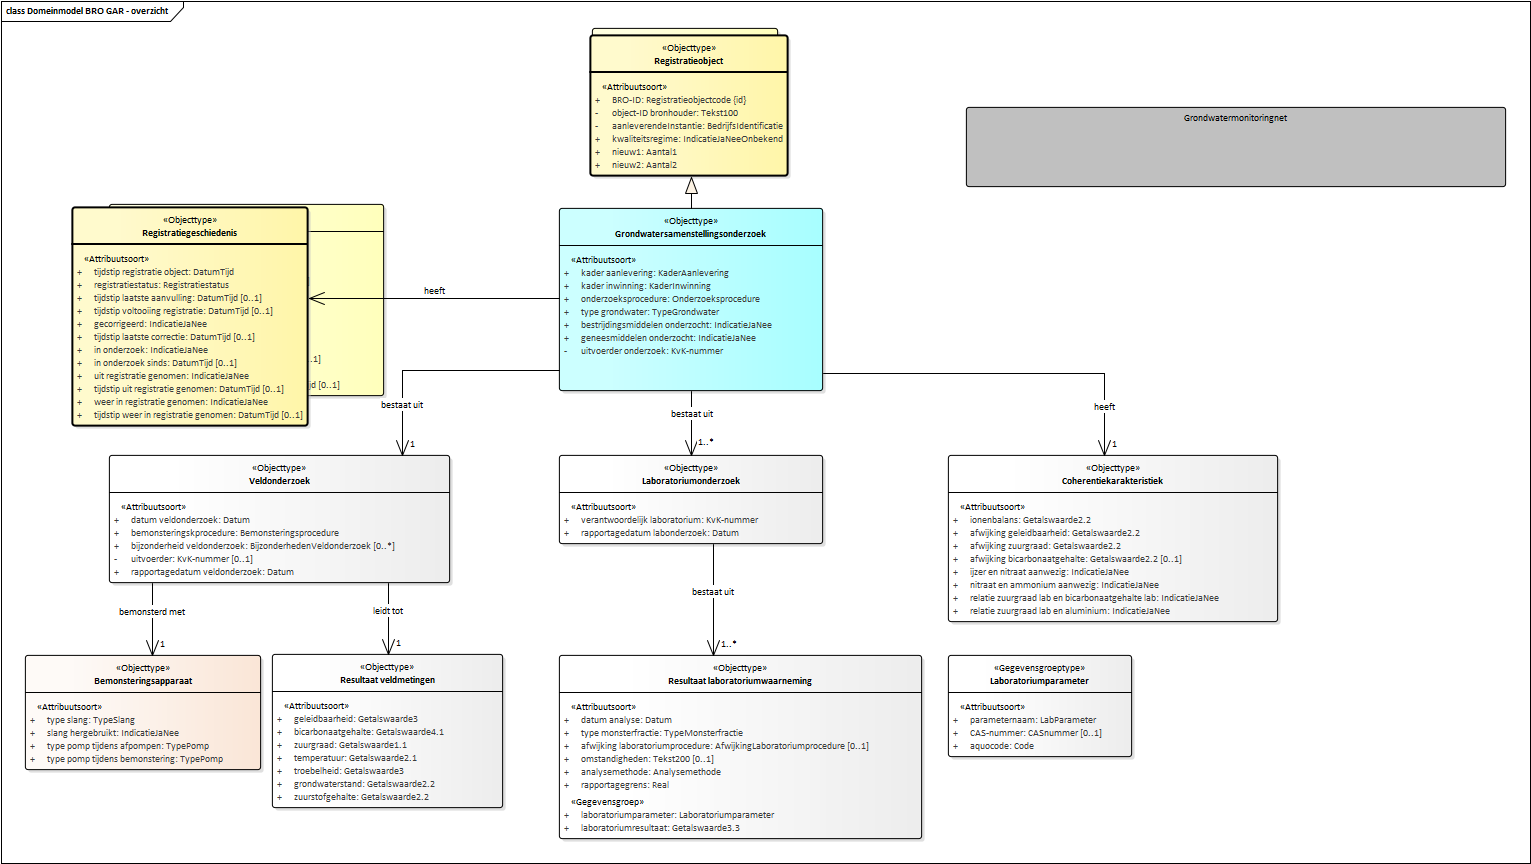
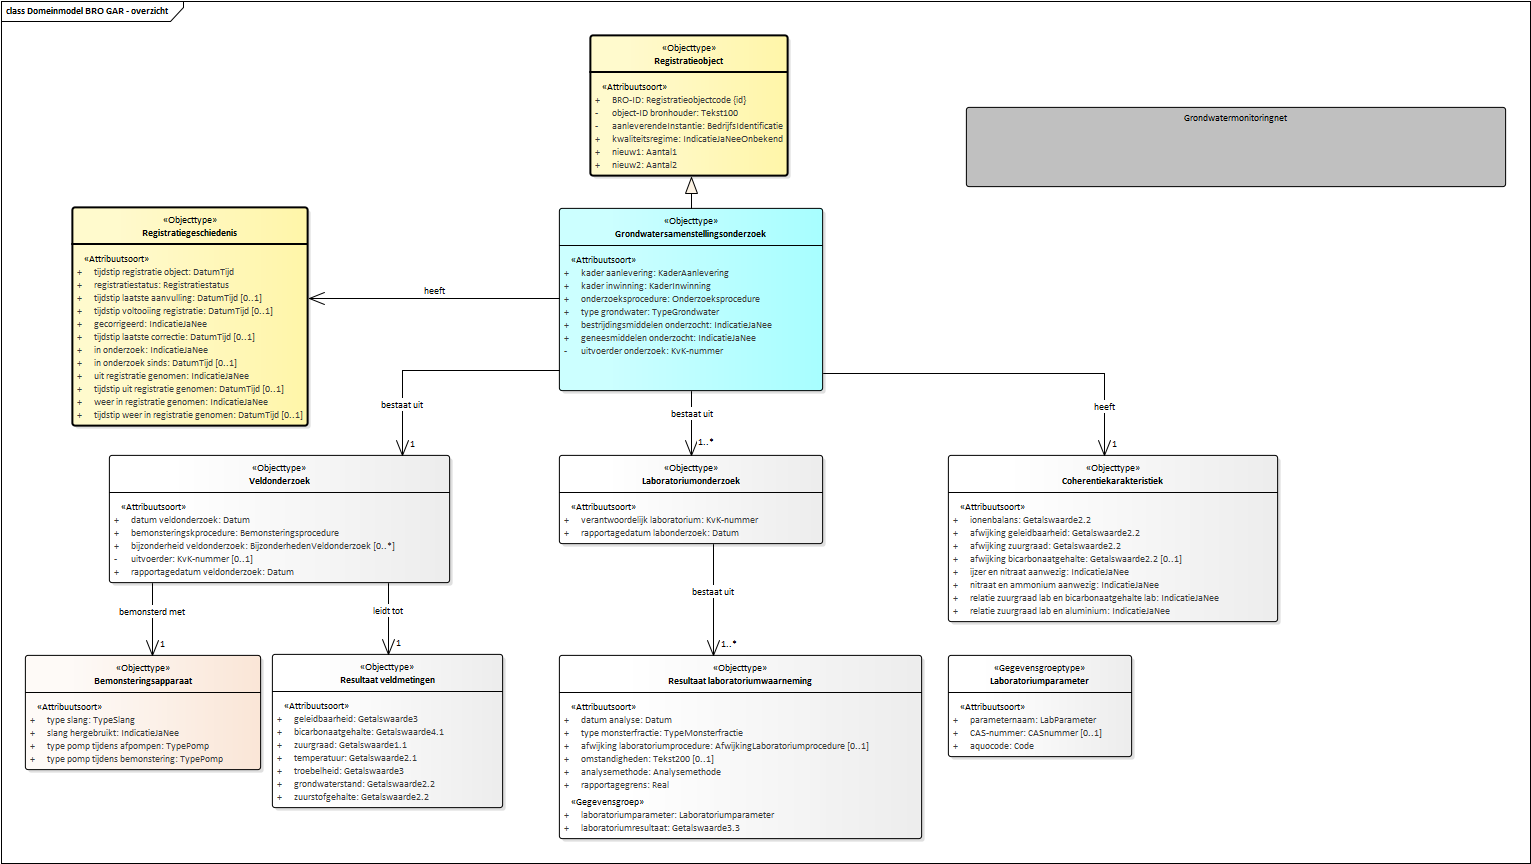
Conceptualmodel-GrondwatersamenstellingsonderzoekGAR-0.1-0-20180315-20180515-104009

Changed region(s): [[0.0921, 0.2188, 0.2763, 0.4688], [0.3684, 0.0312, 0.5219, 0.0625]]

diff --git a/data/GAR-cat.html b/data/GAR-cat.html
@@ -1,10 +1,10 @@
 <h2>Catalogus</h2>
 <p class="note" title="Over deze catalogus">
    Deze catalogus is automatisch samengesteld op basis van het UML model 
-   "Grondwatersamenstellingsonderzoek (GAR)" door 1.44.2 op May 7, 2018 at 13:27:46.
+   "Grondwatersamenstellingsonderzoek (GAR)" door 1.44.1 op May 15, 2018 at 08:40:07.
    <br>
    Wanneer je technische fouten of onvolkomenheden aantreft, geef dit dan door aan <i>arjan@linkedmatter.com</i> en geef de code 
-   <i>"Conceptualmodel-GrondwatersamenstellingsonderzoekGAR-0.1-0-20180315-20180507-152747"</i> door. 
+   <i>"Conceptualmodel-GrondwatersamenstellingsonderzoekGAR-0.1-0-20180315-20180515-104009"</i> door. 
    Voor inhoudelijke fouten neem contact op met het modellenteam: <i>github@basisregistratieondergrond.nl</i>.
    
 </p><a class="anchor" name="global_package_Model"></a><section id="global_package_Model">
@@ -445,6 +445,17 @@
                <tr>
                   <th>Rol naam met kardinaliteiten</th>
                   <th>Definitie</th>
+               </tr>
+               <tr>
+                  <td>
+                     Grondwatersamenstellingsonderzoek
+                     is specialisatie van
+                     
+                     <a class="link" href="#global_class_Brocommon_Registratieobject">Registratieobject</a>
+                     
+                     
+                  </td>
+                  <td></td>
                </tr>
                <tr>
                   <td>
@@ -3661,7 +3672,7 @@
                   </tr>
                   <tr>
                      <th>Regels</th>
-                     <td>De datum ligt niet na de rapportagedatum labonderzoek bij de entiteit Resultaat laboratoriumwaarneming.</td>
+                     <td>De datum ligt niet na de rapportagedatum labonderzoek bij de entiteit Laboratoriumonderzoek.</td>
                   </tr>
                   <tr>
                      <th>Formaat</th>
@@ -3892,7 +3903,7 @@
                   </tr>
                   <tr>
                      <th>Regels</th>
-                     <td>De datum ligt niet na de rapportagedatum labonderzoek bij de entiteit Laboratoriumonderziek</td>
+                     <td>De datum ligt niet na de rapportagedatum labonderzoek bij de entiteit Laboratoriumonderzoek</td>
                   </tr>
                   <tr>
                      <th>Formaat</th>
